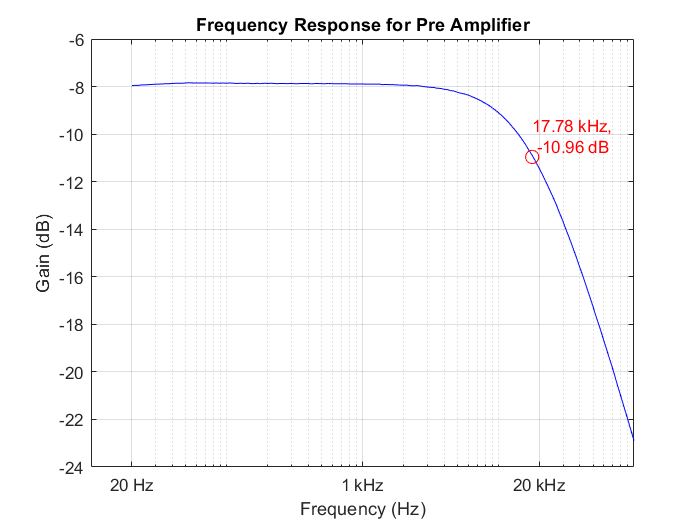
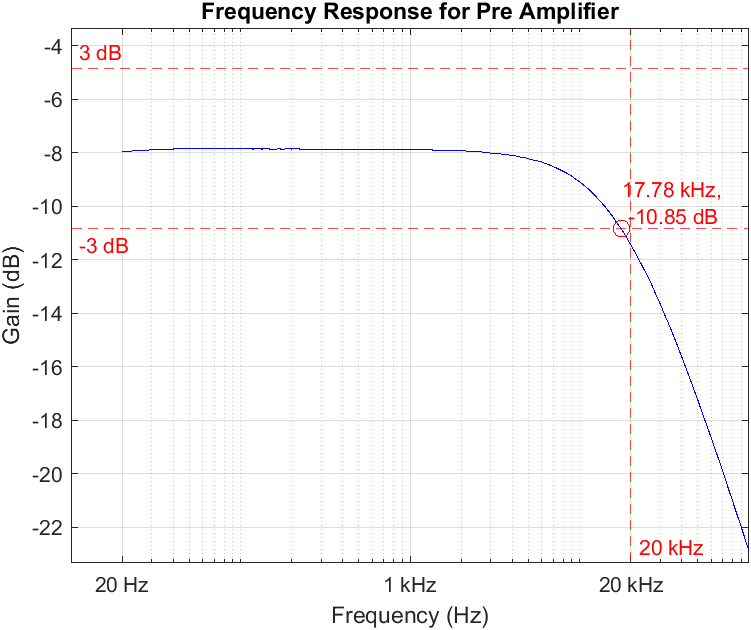
add test figures

diff --git a/dsp_board/test_dsp_board/pre_input_figure.m b/dsp_board/test_dsp_board/pre_input_figure.m
@@ -10,7 +10,7 @@ gain = data(:, 4);   % Gain in dB
 initial_gain_20Hz = gain(idx_20Hz);
 
 % Calculate the target gain (3 dB lower)
-target_dB = initial_gain_20Hz - 3;
+target_dB = 7.85 - 3;
 
 % Find the frequency where the gain is equal to target_dB
 [~, idx_target] = min(abs(gain - target_dB));
@@ -31,6 +31,18 @@ title('Frequency Response for Output Stage');
 grid on;
 xticks([20 1e3 2e4]);
 xticklabels({'20 Hz', '1 kHz', '20 kHz'});
+xline(20000, '--r', '20 kHz', ...
+    'LabelOrientation', 'horizontal', ...
+    'LabelVerticalAlignment', 'bottom', ...
+    'LabelHorizontalAlignment', 'right');
+yline(7.85 - 3, '--r', '-3 dB', ...
+    'LabelOrientation', 'horizontal', ...
+    'LabelVerticalAlignment', 'bottom', ...
+    'LabelHorizontalAlignment', 'left');
+yline(7.85 + 3, '--r', '3 dB', ...
+    'LabelOrientation', 'horizontal', ...
+    'LabelVerticalAlignment', 'top', ...
+    'LabelHorizontalAlignment', 'left');
 %legend show;
 
 % Convert target frequency to kHz for labeling

diff --git a/gitfigures/system_design/analog_frontend/impedance_pedalboard.m b/gitfigures/system_design/analog_frontend/impedance_pedalboard.m
@@ -1,0 +1,27 @@
+clc; close all; clear;
+
+% Read data from CSV file
+data = readmatrix('input_impedance.csv');  % Replace with your actual file name
+frequency = data(:, 1);   % Frequency in Hz
+phaseZ = data(:, 2);      % Phase in radians
+magnitudeZ = data(:, 3);  % Magnitude of impedance
+magnitude_kOhm = magnitudeZ / 1000;
+
+% Plot impedance magnitude and phase vs. frequency
+figure;
+
+%subplot(2,1,1);
+semilogx(frequency, magnitude_kOhm, 'b', 'LineWidth', 1.5);
+xlabel('Frequency (Hz)');
+ylabel('|Z| (k\Omega)');
+title('Impedance Magnitude');
+grid on;
+
+%{
+subplot(2,1,2);
+semilogx(frequency, rad2deg(phaseZ), 'r', 'LineWidth', 1.5);
+xlabel('Frequency (Hz)');
+ylabel('Phase (degrees)');
+title('Impedance Phase');
+grid on;
+%}

diff --git a/gitfigures/ImplementationTest/sampling_test.m b/gitfigures/ImplementationTest/sampling_test.m
@@ -1,0 +1,15 @@
+clc; close all; clear;
+
+% Read data from CSV file
+data = readmatrix('samplingtest.csv');  % Replace with your actual file name
+time = data(:, 1);    % Time (seconds)
+voltage = data(:, 2); % Voltage (volts)
+
+% Plot the signal
+figure;
+plot(time, voltage, 'b', 'LineWidth', 1.5);
+xlim([0 1e-4]);
+xlabel('Time (s)');
+ylabel('Voltage (V)');
+title('ADC Sampling');
+grid on;
